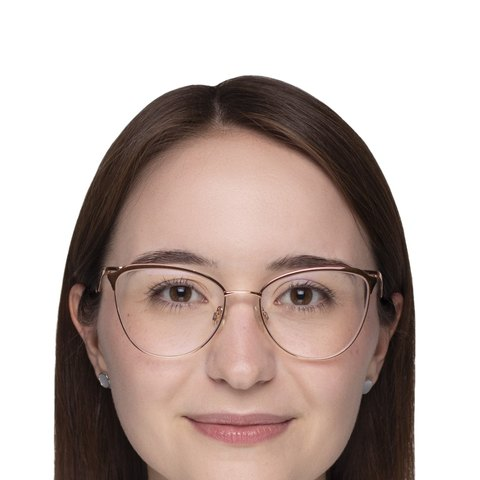
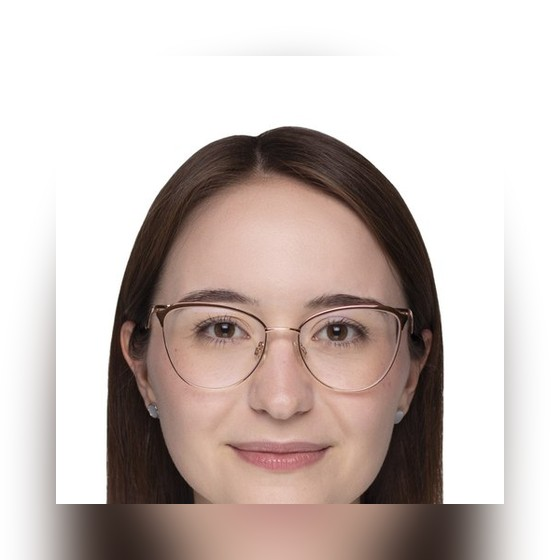
Фото Татьяны и Марии пересобраны с полями (лица больше не режет круг); Лена третья в блоке админов
Claude-Session: https://claude.ai/code/session_01DP7mBr5C3WFqQnNia5bFBU

diff --git a/app/static/site.html b/app/static/site.html
@@ -226,9 +226,9 @@ footer a{color:#fff}
   box-shadow:0 8px 24px rgba(49,39,131,.18);background:linear-gradient(135deg,#1DA7E0,#312783)}
 .tcard .av img{width:100%;height:100%;object-fit:cover;object-position:50% 22%;display:block}
 .av-init{display:flex;align-items:center;justify-content:center;background:linear-gradient(150deg,var(--blue),var(--indigo));color:#fff;font:900 2.4rem Rubik}
-.av-tat img{object-position:50% 45%}
+.av-tat img{object-position:50% 50%}
 .av-kat img{object-position:50% 34%}
-.av-mar img{object-position:50% 30%;transform:scale(1.22);transform-origin:50% 35%}
+.av-mar img{object-position:50% 50%}
 .av-len img{transform:scale(1.18);transform-origin:50% 25%}
 .av-mab img{transform:scale(1.4);transform-origin:50% 14%}
 .av-vik img{transform:scale(1.18);transform-origin:50% 25%}
@@ -1041,10 +1041,10 @@ body.js .reveal.in{opacity:1;transform:none}
     <div class="t-grid">
       <div class="tcard reveal"><span class="av av-anya"><img src="/static/img/adm_anya.jpg" alt="Аня" loading="lazy"></span>
         <h3>Аня</h3><p>Знает расписание наизусть и подберёт группу за один звонок.</p></div>
-      <div class="tcard reveal"><span class="av av-lena"><img src="/static/img/adm_lena.jpg" alt="Лена" loading="lazy"></span>
-        <h3>Лена</h3><p>Соберёт несколько занятий в один вечер, чтобы возить один раз.</p></div>
       <div class="tcard reveal"><span class="av"><img src="/static/img/adm_ira.jpg" alt="Ира" loading="lazy"></span>
         <h3>Ира</h3><p>Ответит на вопросы по оплате и абонементам.</p></div>
+      <div class="tcard reveal"><span class="av av-lena"><img src="/static/img/adm_lena.jpg" alt="Лена" loading="lazy"></span>
+        <h3>Лена</h3><p>Соберёт несколько занятий в один вечер, чтобы возить один раз.</p></div>
       <!-- Лиза — добавится, как только пришлёт фото:
       <div class="tcard reveal"><span class="av"><img src="/static/img/adm_liza.jpg" alt="Лиза"></span><h3>Лиза</h3><p>На связи в WhatsApp и Telegram каждый день.</p></div> -->
     </div>

diff --git a/app/main.py b/app/main.py
@@ -2491,7 +2491,7 @@ def _wazzup_process(payload: dict) -> None:
     _wazzup_tag(payload)
 
 
-APP_VERSION = "2026-08-28.20"
+APP_VERSION = "2026-08-28.21"
 
 
 @app.get("/api/net")
